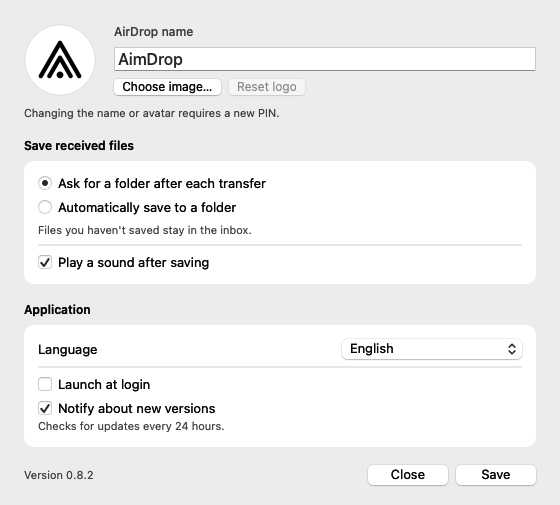
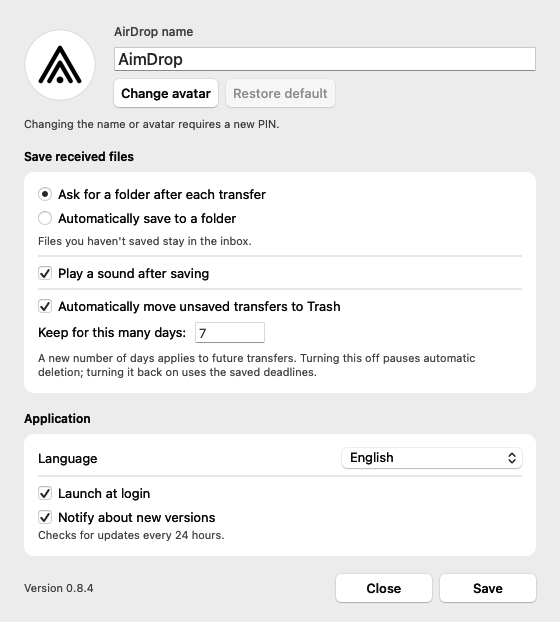
docs: refresh settings screenshot for AimDrop 0.8.4

diff --git a/README.md b/README.md
@@ -32,7 +32,7 @@ configurable inbox cleanup. See [what changed](docs/releases/0.8.4.md).
 - **15 languages**, selected automatically from your system preferences or manually in Settings.
 - **In-app updates** through Sparkle, with signed downloads, safe restart, 24-hour checks and optional new-version notifications.
 
-<img src="docs/images/settings.png" width="560" alt="AimDrop settings with a circular avatar, save options, language and notification preferences">
+<img src="docs/images/settings.png" width="560" alt="AimDrop settings with avatar controls, save options, automatic inbox cleanup, language and launch-at-login preferences">
 
 ## Requirements
 
